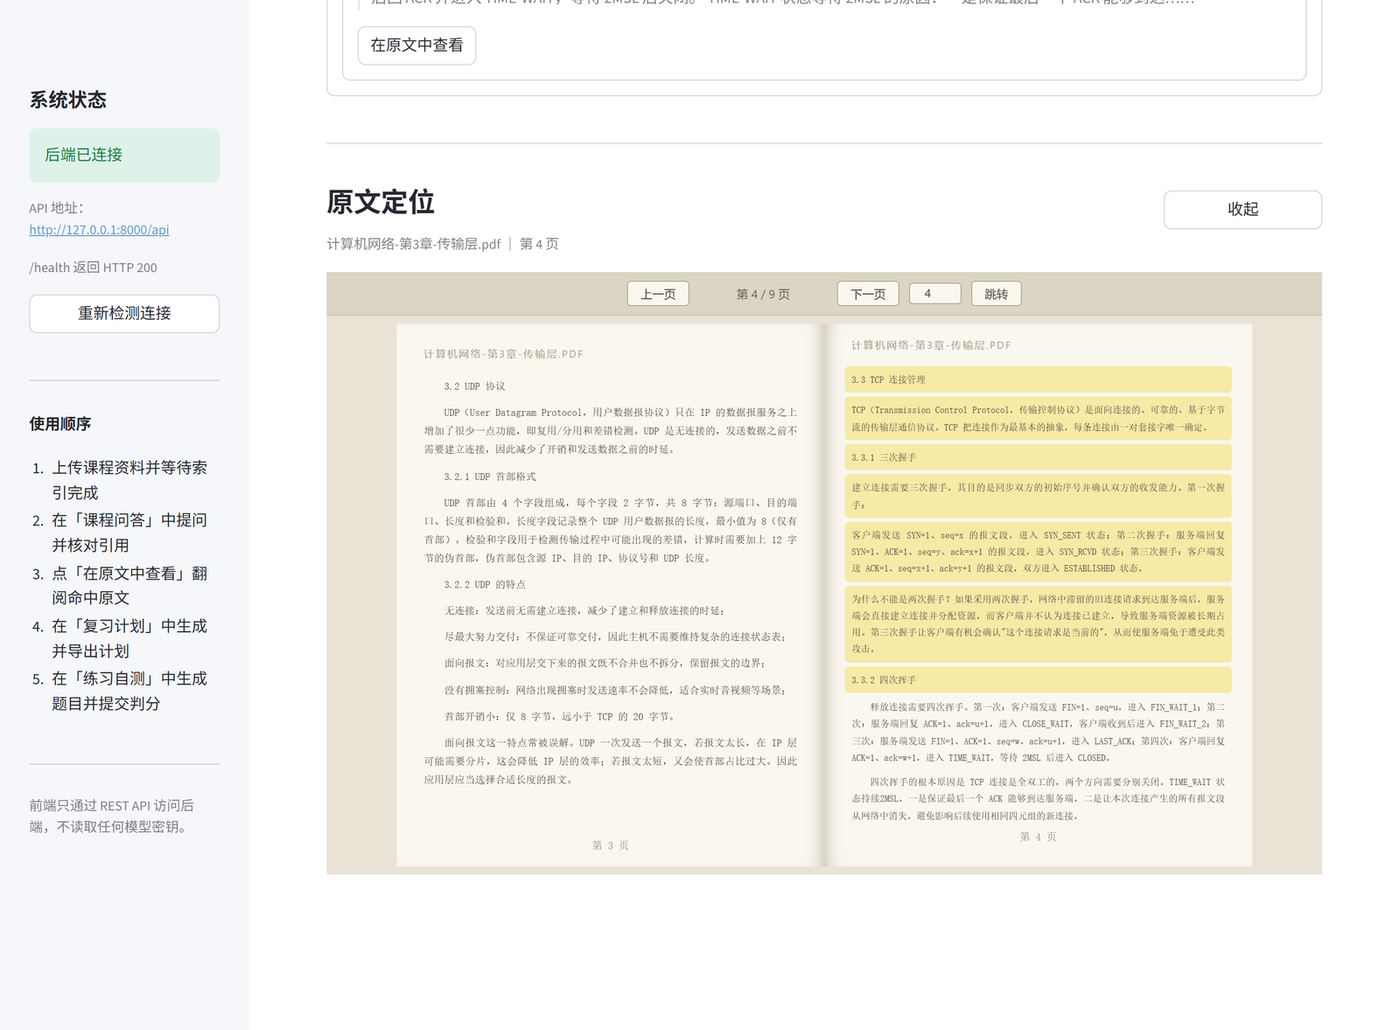
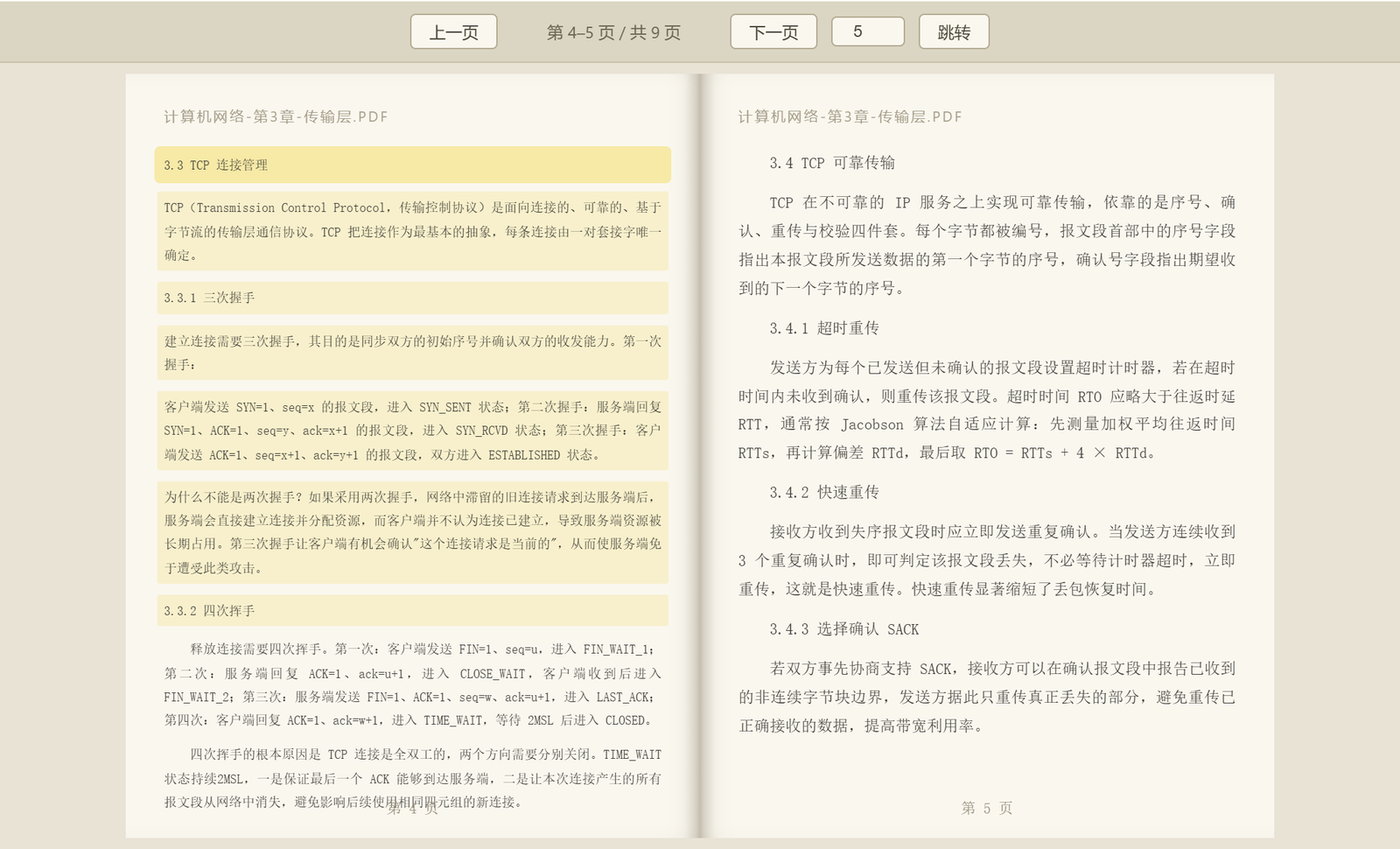
feat: 阅读器改为整叶翻转，一页纸正反两面，页码按跨页递增
- 状态模型由「右页索引 cur」改为「跨页序号 spread」：左页 2s-1、右页 2s
- 向前翻：纸正面=当前右页、背面=下一页，翻过后背面落到左侧，右边预铺再下一页
- 向后翻：纸从左侧卷回右侧，左侧预铺前一跨页
- 页码显示改为跨页区间（第 3–4 页），跳转时奇数页落左、偶数页落右
- 书脊加中缝渐变、纸面加外投影，透视从 2400 调到 3000 并给舞台留出侧边余量
- 工具栏提升层级，避免翻起的纸盖住按钮
- 引用高亮改为「首处实心、其余淡底」，不再整页糊成一片黄

diff --git a/frontend/streamlit_app.py b/frontend/streamlit_app.py
@@ -2069,7 +2069,7 @@ body {
 }
 #app { height: 100%; display: flex; flex-direction: column; }
 #bar {
-  flex: 0 0 auto;
+  flex: 0 0 auto; position: relative; z-index: 30;
   display: flex; align-items: center; justify-content: center; gap: 10px;
   padding: 9px 12px;
   background: #DBD5C3;
@@ -2083,15 +2083,26 @@ body {
 }
 #bar button:hover:not(:disabled) { background: #FFFDF6; }
 #bar button:disabled { opacity: .38; cursor: default; }
-#info { font-size: 12px; color: #6B6553; min-width: 132px; text-align: center; }
+#info { font-size: 12px; color: #6B6553; min-width: 150px; text-align: center; }
 #jump {
   width: 54px; font-size: 12px; padding: 3px 6px; text-align: center;
   border: 1px solid #B4AB93; border-radius: 4px;
   background: #FAF7EF; color: #4A4738;
 }
 #stage {
-  flex: 1; position: relative; width: 100%; max-width: 880px;
-  margin: 0 auto; perspective: 2400px;
+  flex: 1; position: relative; max-width: 840px;
+  /* 两侧各留 28px 余量：纸张翻起时透视会把它放大 5% 左右，留白避免压到书框外 */
+  width: calc(100% - 56px);
+  margin: 0 auto; perspective: 3000px;
+}
+/* 书脊中缝：让左右两页看起来是一张摊开的纸，而不是两个并排的框 */
+#stage::after {
+  content: ""; position: absolute; top: 8px; bottom: 8px; left: 50%;
+  width: 22px; margin-left: -11px; pointer-events: none; z-index: 6;
+  background: linear-gradient(90deg,
+    rgba(120,108,78,0) 0%, rgba(120,108,78,.10) 38%,
+    rgba(120,108,78,.20) 50%, rgba(120,108,78,.10) 62%,
+    rgba(120,108,78,0) 100%);
 }
 .pane { position: absolute; top: 8px; bottom: 8px; width: 50%; overflow: hidden; background: #FAF7EF; }
 #paneL { left: 0; box-shadow: inset -14px 0 20px -16px rgba(88,78,48,.5); }
@@ -2107,9 +2118,11 @@ body {
 .face {
   position: absolute; inset: 0; overflow: hidden; background: #FAF7EF;
   backface-visibility: hidden; -webkit-backface-visibility: hidden;
+  /* 外投影让翻起的纸有厚度，底下那页看起来是「被压住」而不是被切碎 */
+  box-shadow: 0 4px 22px rgba(96,84,52,.20), 0 1px 3px rgba(96,84,52,.14);
 }
-.face.front { box-shadow: inset 14px 0 20px -16px rgba(88,78,48,.5); }
-.face.back { transform: rotateY(180deg); box-shadow: inset -14px 0 20px -16px rgba(88,78,48,.5); }
+.face.front { box-shadow: inset 14px 0 20px -16px rgba(88,78,48,.5), 0 4px 22px rgba(96,84,52,.20); }
+.face.back { transform: rotateY(180deg); box-shadow: inset -14px 0 20px -16px rgba(88,78,48,.5), 0 4px 22px rgba(96,84,52,.20); }
 .pg {
   position: absolute; inset: 0; overflow: auto;
   padding: 22px 28px 36px;
@@ -2125,6 +2138,11 @@ body {
   background: #F7E9A6; text-indent: 0; border-radius: 2px;
   padding: 3px 5px; margin: 0 -5px 8px;
   box-shadow: 0 0 0 2px #F7E9A6;
+}
+/* 同一个分块可能覆盖整页，只有第一处标成实心黄，其余用淡底表示"同源范围" */
+.pg p.hl-soft {
+  background: rgba(247,233,166,.48); text-indent: 0; border-radius: 2px;
+  padding: 3px 5px; margin: 0 -5px 8px;
 }
 .pg .pno {
   position: absolute; bottom: 11px; left: 0; right: 0;
@@ -2166,9 +2184,19 @@ body {
   var DATA = JSON.parse(document.getElementById('book-data').textContent);
   var pages = DATA.pages || [];
   var target = DATA.target || '';
-  var cur = Math.min(Math.max(DATA.start | 0, 0), Math.max(pages.length - 1, 0));
+  var total = pages.length;
+  // 真实书籍里翻动的是一张纸：正面 N、背面 N+1。摊开后左页 = 2s-1、右页 = 2s，
+  // s 是跨页序号，所以每次翻页页码前进 2，而不是平移一页。
+  var maxSpread = Math.max(0, Math.floor(total / 2));
+  var spread = clampSpread(Math.floor(((DATA.start | 0) + 1) / 2));
   var busy = false;
   var byId = function (id) { return document.getElementById(id); };
+
+  function clampSpread(value) {
+    if (value < 0) { return 0; }
+    if (value > maxSpread) { return maxSpread; }
+    return value;
+  }
 
   function buildCover(el) {
     el.innerHTML = '';
@@ -2215,7 +2243,11 @@ body {
     for (var i = 0; i < list.length; i++) {
       var p = document.createElement('p');
       p.textContent = list[i].t;
-      if (target && list[i].c === target) { p.className = 'hl'; hit = p; }
+      if (target && list[i].c === target) {
+        // 首处实心高亮作为落点，同分块的其余段落用淡底，避免整页糊成一片黄
+        p.className = hit ? 'hl-soft' : 'hl';
+        if (!hit) { hit = p; }
+      }
       el.appendChild(p);
     }
     var no = document.createElement('div');
@@ -2227,39 +2259,60 @@ body {
   }
 
   function renderStatic() {
-    buildPage(byId('pgL'), cur - 1);
-    buildPage(byId('pgR'), cur);
-    var total = pages.length;
-    byId('info').textContent = total ? ('第 ' + (cur + 1) + ' / ' + total + ' 页') : '暂无内容';
-    byId('prev').disabled = cur <= 0;
-    byId('next').disabled = cur >= total - 1;
+    var left = spread * 2 - 1;
+    var right = spread * 2;
+    buildPage(byId('pgL'), left);
+    buildPage(byId('pgR'), right);
+    var text;
+    if (!total) {
+      text = '暂无内容';
+    } else if (left < 0) {
+      text = '第 1 页 / 共 ' + total + ' 页';
+    } else if (right >= total) {
+      text = '第 ' + (left + 1) + ' 页 / 共 ' + total + ' 页';
+    } else {
+      text = '第 ' + (left + 1) + '–' + (right + 1) + ' 页 / 共 ' + total + ' 页';
+    }
+    byId('info').textContent = text;
+    byId('prev').disabled = spread <= 0;
+    byId('next').disabled = spread >= maxSpread;
     byId('jump').max = total;
-    byId('jump').value = cur + 1;
+    byId('jump').value = Math.min(Math.max(spread * 2 + 1, 1), Math.max(total, 1));
   }
 
   function flip(dir) {
-    if (busy) { return; }
-    var next = cur + dir;
-    if (next < 0 || next >= pages.length) { return; }
+    if (busy || !total) { return; }
+    var next = spread + dir;
+    if (next < 0 || next > maxSpread) { return; }
     busy = true;
+    var forward = dir > 0;
     var sheet = byId('sheet');
-    var back = dir < 0;
-    if (dir > 0) {
-      buildPage(byId('pgF'), cur);
-      buildPage(byId('pgB'), next);
+
+    if (forward) {
+      // 翻的是当前右页这张纸：正面 2s、背面 2s+1（翻过去正好落到新左页）。
+      // 右边底层提前铺上新右页 2s+2，纸一转开露出的就是它。
+      buildPage(byId('pgF'), spread * 2);
+      buildPage(byId('pgB'), spread * 2 + 1);
+      buildPage(byId('pgR'), spread * 2 + 2);
     } else {
-      buildPage(byId('pgF'), cur - 1);
-      buildPage(byId('pgB'), next - 1);
+      // 往回翻：这张纸现在躺在左边，背面 2s-1 朝上、正面 2s-2 落回右边。
+      // 左边底层提前铺上新左页 2s-3，纸卷走后露出来的就是它。
+      buildPage(byId('pgB'), spread * 2 - 1);
+      buildPage(byId('pgF'), spread * 2 - 2);
+      buildPage(byId('pgL'), spread * 2 - 3);
     }
+
     sheet.style.transition = 'none';
-    sheet.classList.toggle('flipped', back);
     sheet.classList.add('run');
+    sheet.classList.toggle('flipped', !forward);
     void sheet.offsetWidth;
     sheet.style.transition = '';
     void sheet.offsetWidth;
-    sheet.classList.toggle('flipped', !back);
+    window.requestAnimationFrame(function () {
+      sheet.classList.toggle('flipped', forward);
+    });
     window.setTimeout(function () {
-      cur = next;
+      spread = next;
       renderStatic();
       sheet.classList.remove('run');
       busy = false;
@@ -2269,11 +2322,14 @@ body {
   byId('prev').onclick = function () { flip(-1); };
   byId('next').onclick = function () { flip(1); };
   byId('go').onclick = function () {
+    if (busy || !total) { return; }
     var value = parseInt(byId('jump').value, 10);
-    if (isNaN(value) || !pages.length) { return; }
-    var index = Math.min(Math.max(value - 1, 0), pages.length - 1);
-    if (index === cur) { return; }
-    cur = index;
+    if (isNaN(value)) { return; }
+    var index = Math.min(Math.max(value - 1, 0), total - 1);
+    // 页码换算成跨页：偶数页落在右页、奇数页落在左页，保证目标页一定在视野内
+    var next = clampSpread(Math.floor((index + 1) / 2));
+    if (next === spread) { return; }
+    spread = next;
     renderStatic();
   };
   document.addEventListener('keydown', function (event) {

diff --git a/README.md b/README.md
@@ -24,7 +24,7 @@
 
 ![引用跳转](docs/images/04-citation-open.png)
 
-**课本原文**：左右对开翻书阅读，有页码的资料按真实页码一页对一页，支持按钮、键盘方向键与页码跳转。
+**课本原文**：左右对开翻书阅读，翻页时整张纸翻转、背面落到左侧，页码按跨页连续递增；有页码的资料一页对一页，支持按钮、键盘方向键与页码跳转。
 
 ![课本原文](docs/images/05-book.png)
 
@@ -82,6 +82,8 @@
 ### 5. 课本原文
 
 - 以**翻书**方式浏览已入库资料的原文分块，左右对开、3D 翻页动画，支持键盘方向键与页码跳转；
+- 翻动的是一整张纸：正面印当前右页、背面印下一页，绕书脊转过 180° 后背面落到左侧，
+  右边同时露出再下一页，所以页码按跨页连续递增，和翻纸质教材一样；
 - 问答与练习题里的引用卡片带「在原文中查看」按钮，点击后在页面下方展开阅读器，
   自动翻到引用所在页并**高亮对应段落**；
 - 有真实页码的资料（PDF / PPT）按原页码一页对一页，保证引用页码可以直接核对；
